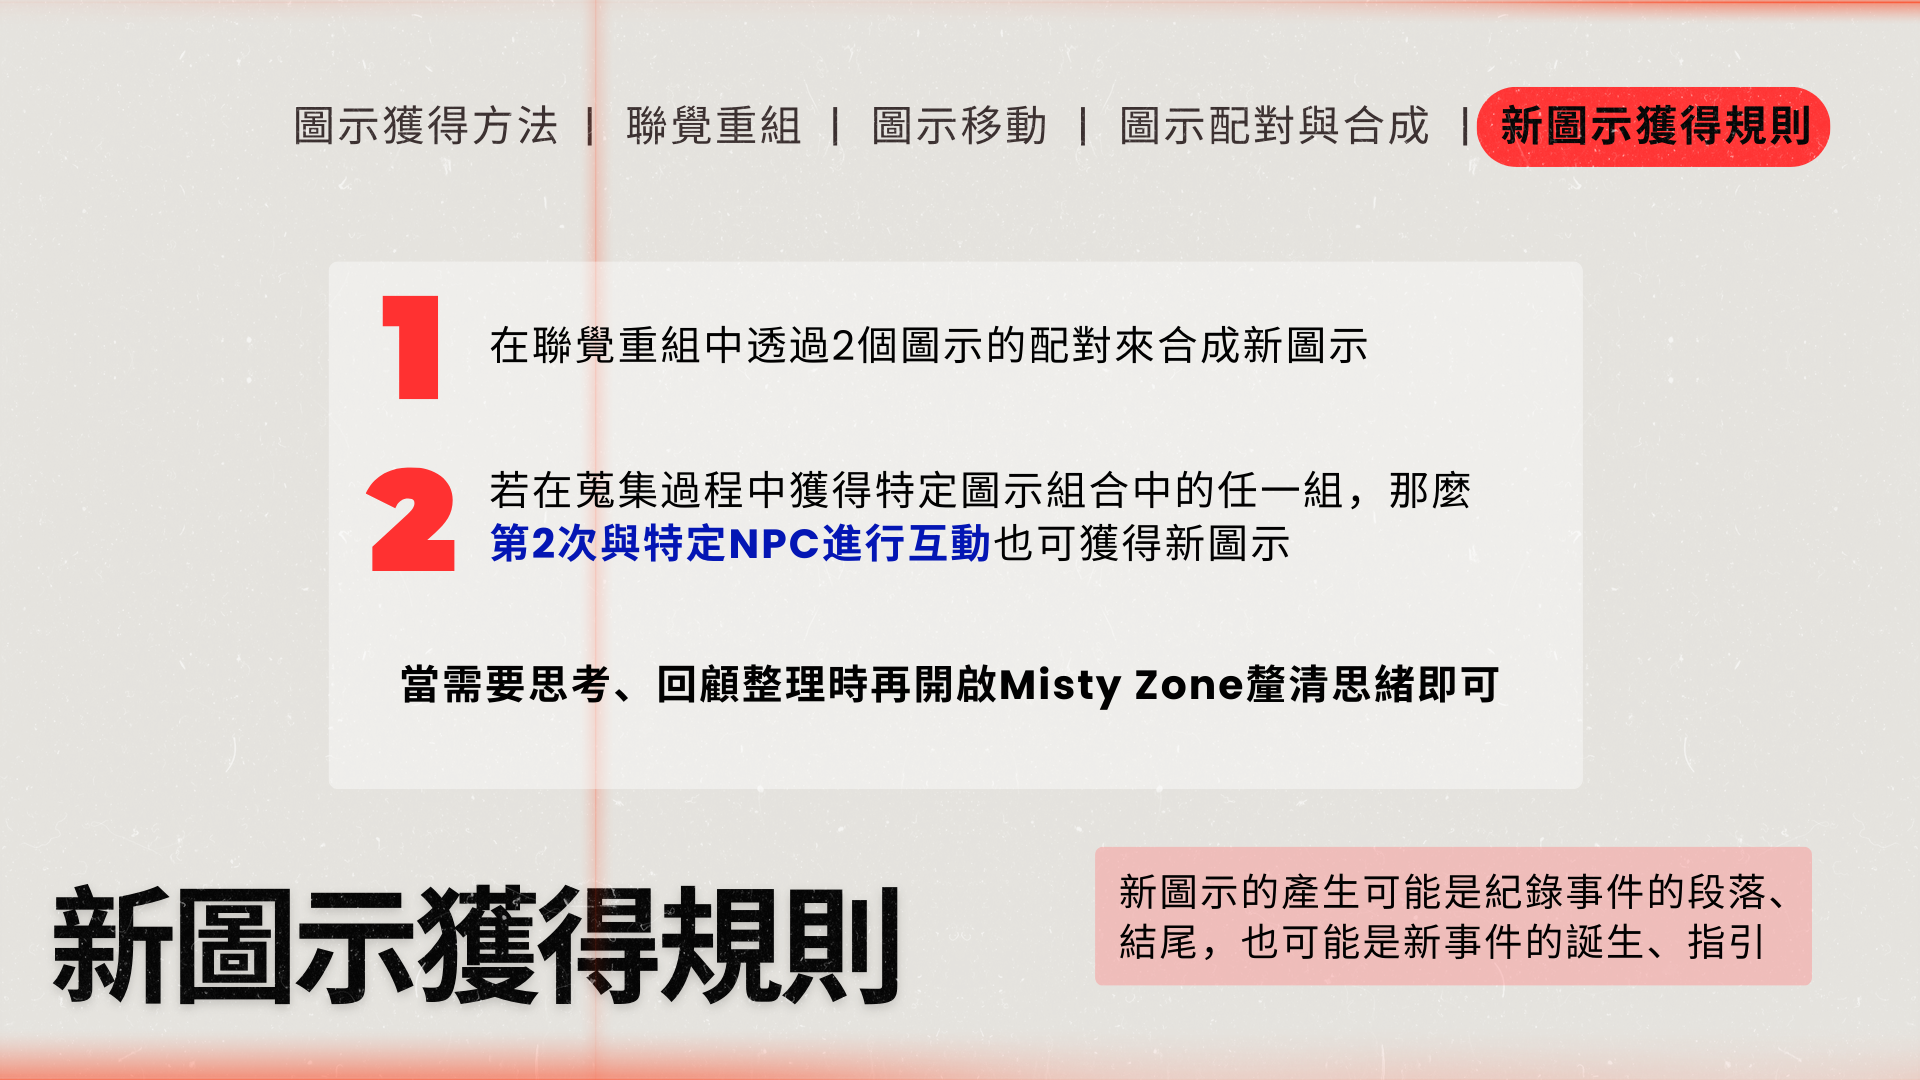
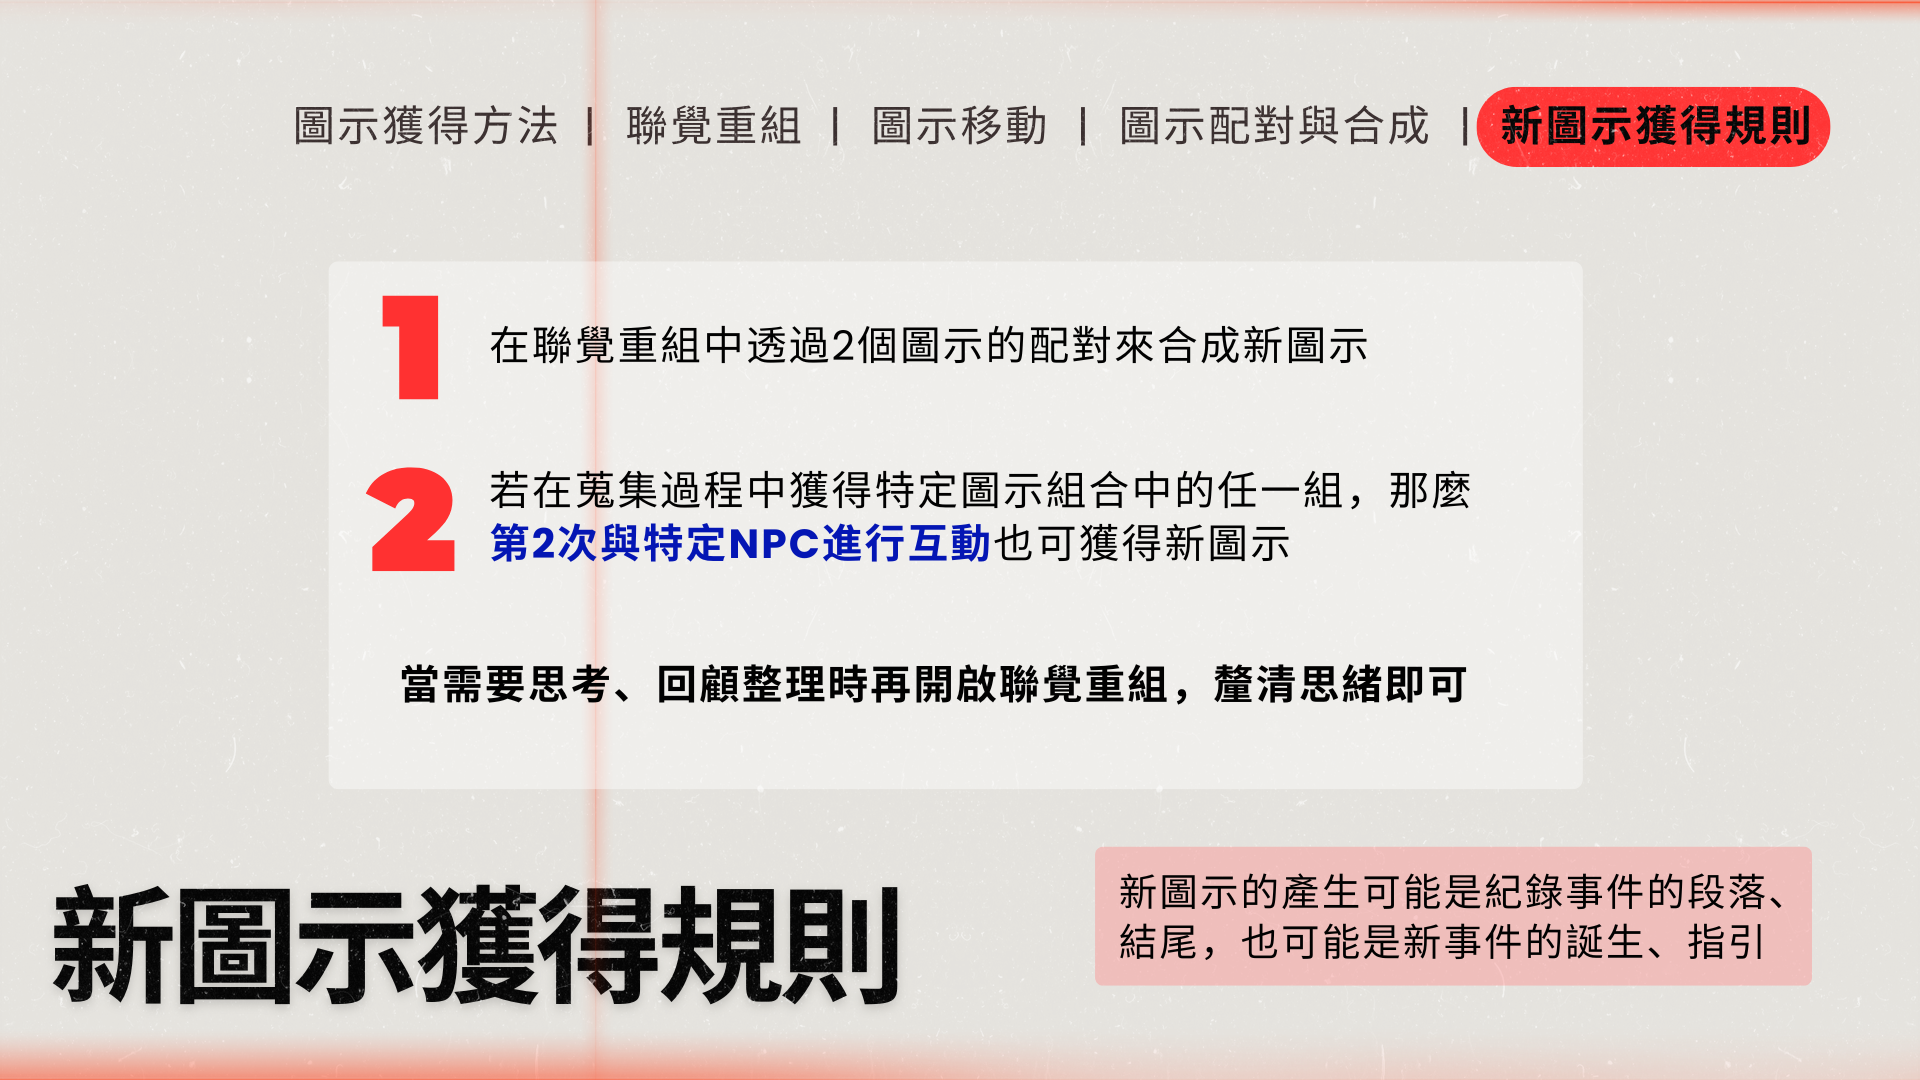
換圖+搞音效

Changed region(s): [[0.5, 0.6111, 0.7812, 0.6722]]

diff --git a/Assets/DialogueManager.cs b/Assets/DialogueManager.cs
@@ -13,7 +13,7 @@ public class DialogueManager : MonoBehaviour
     [Header("Params")] // [新增] 控制打字速度
     [SerializeField] private float typingSpeed = 0.07f;
 
-    [SerializeField] private AudioClip typingSound; // [新增] 讓你可以自行選擇音效檔案
+    [SerializeField] private string typingSoundName = "typing";
     [Range(1, 5)]
     [SerializeField] private int soundFrequency = 1; // [新增] 控制音效頻率（每隔幾個字響一次，避免太吵）
 
@@ -243,13 +243,11 @@ public class DialogueManager : MonoBehaviour
     // [新增] 播放文字音效的方法
     private void PlayTypingSound(int currentDisplayedCharacterCount)
     {
-        // 只有在設定了音效，且達到播放頻率時才播放
-        if (typingSound != null && currentDisplayedCharacterCount % soundFrequency == 0)
+        if (!string.IsNullOrEmpty(typingSoundName) && currentDisplayedCharacterCount % soundFrequency == 0)
         {
-            // 這裡直接調用你原本 SoundManager 的 3D 播放功能（物件位置設在相機或 Manager 物件上）
             if (SoundManager.Instance != null)
             {
-                SoundManager.Instance.PlaySound3D(typingSound, transform.position);
+                SoundManager.Instance.PlaySound2D(typingSoundName);
             }
         }
     }
